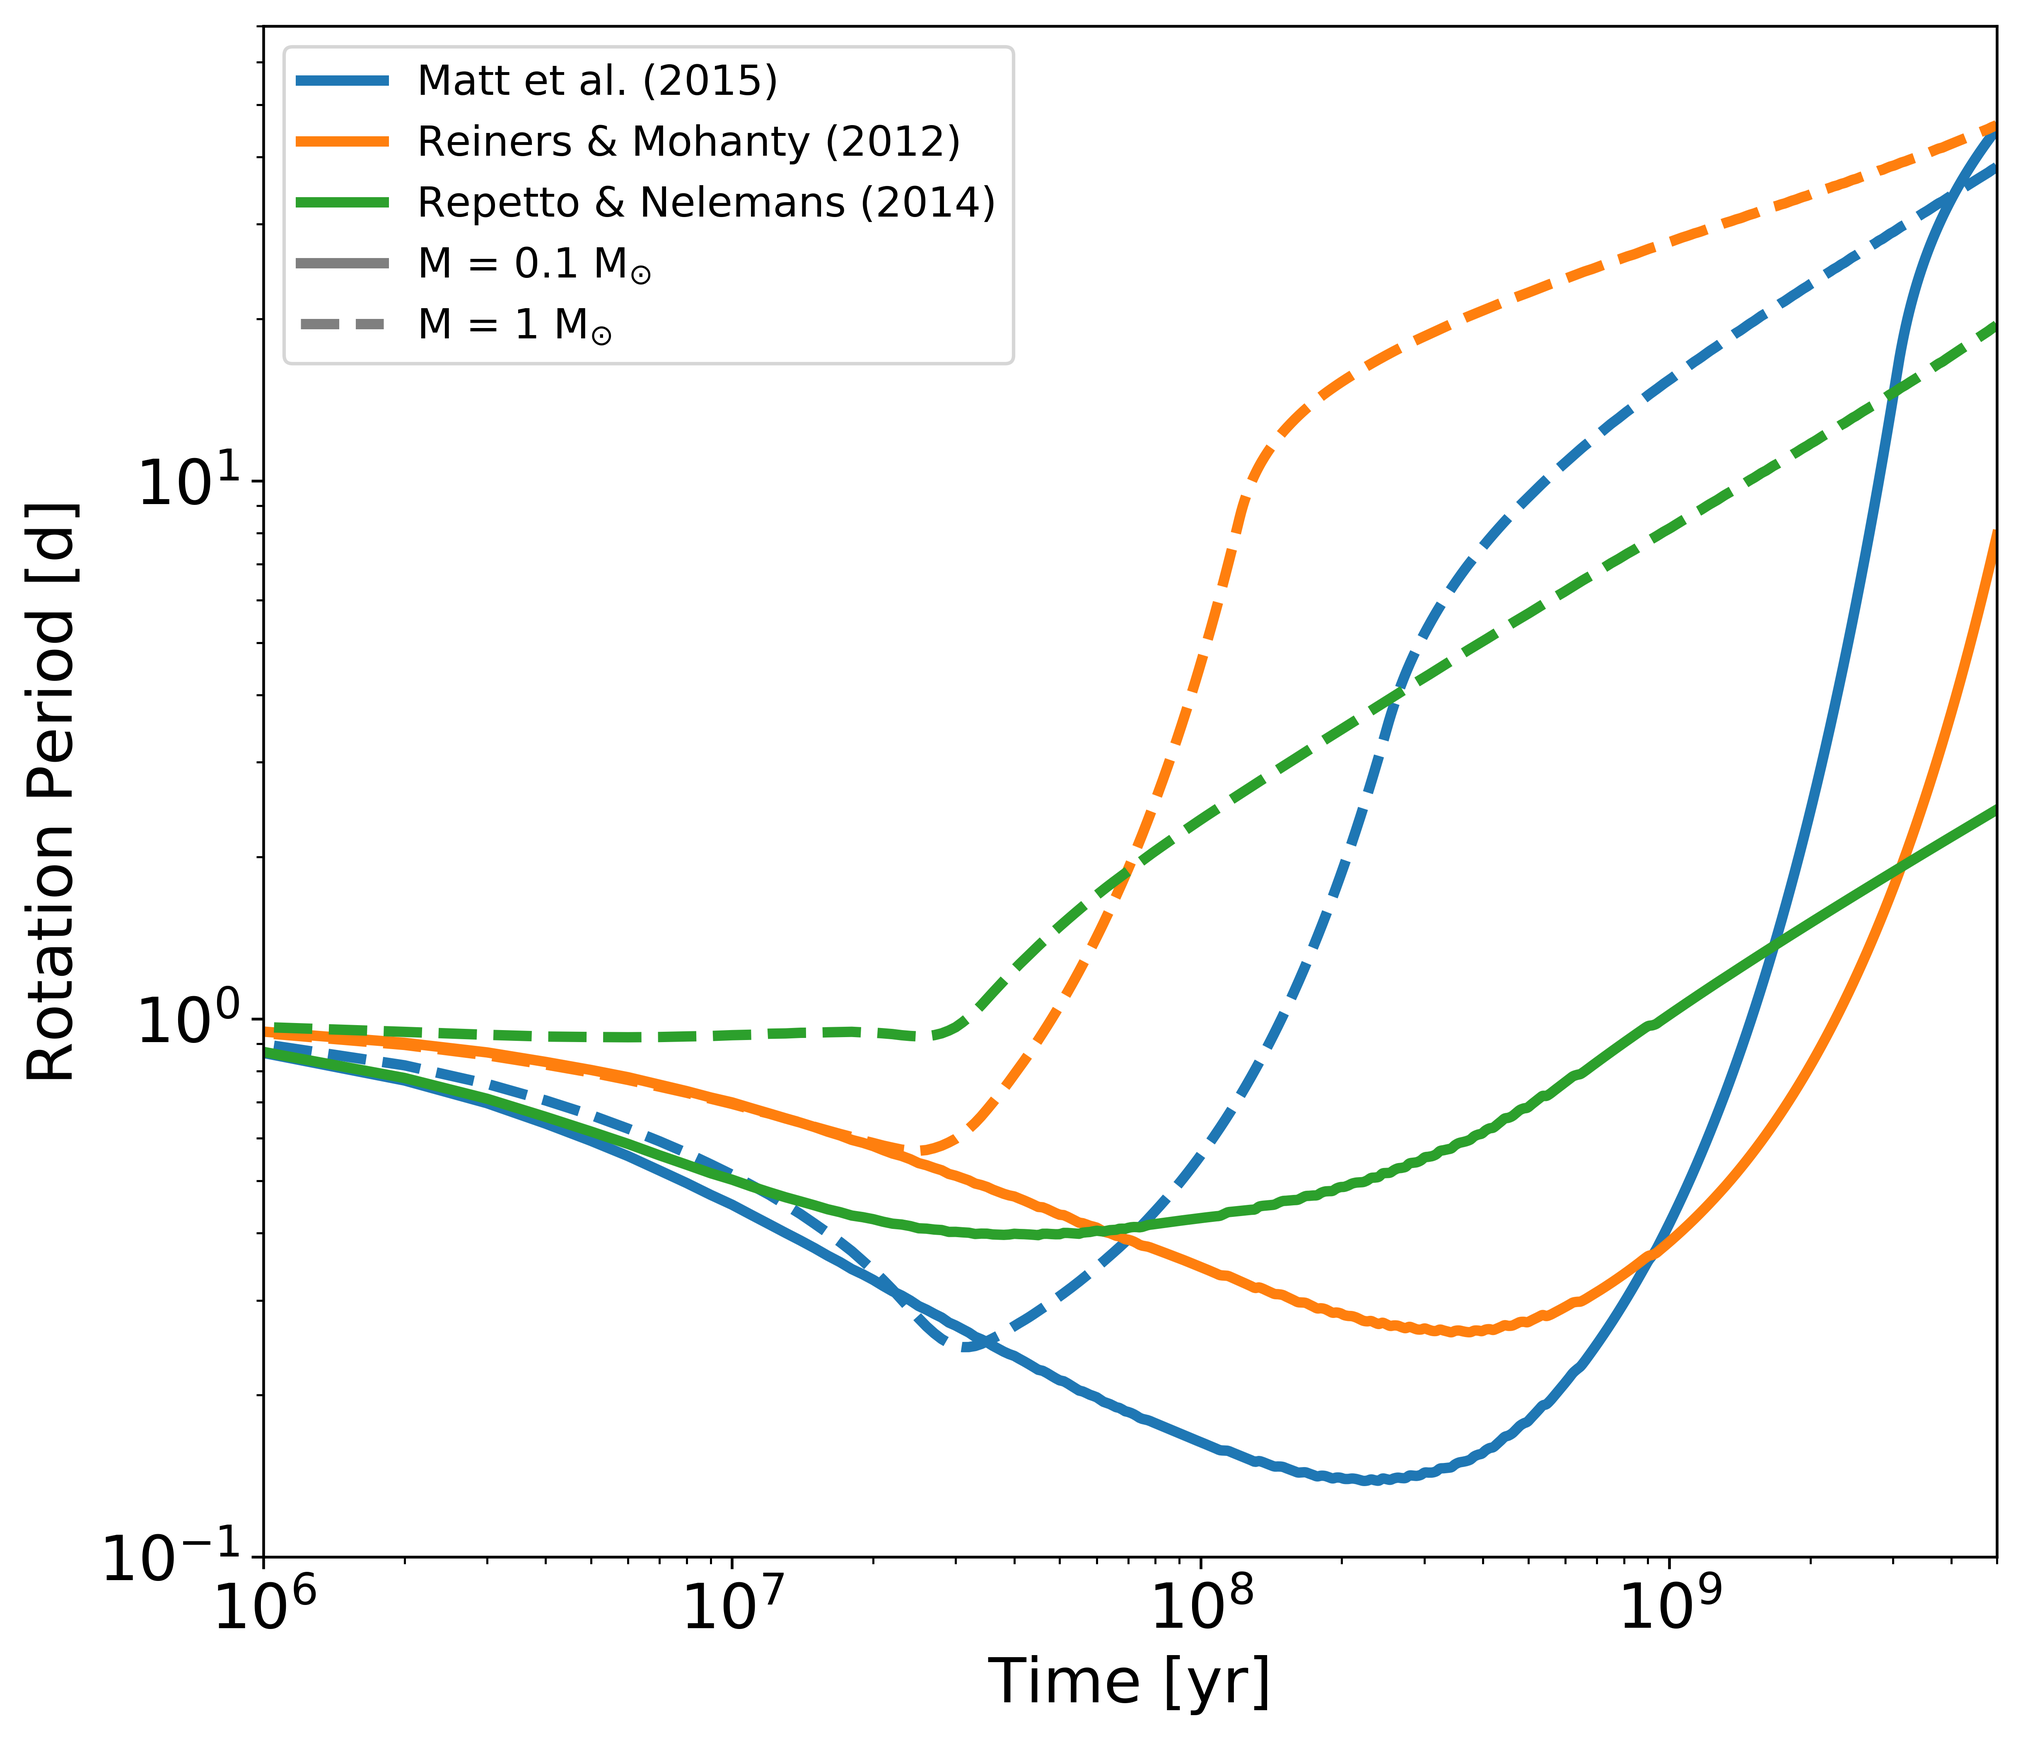
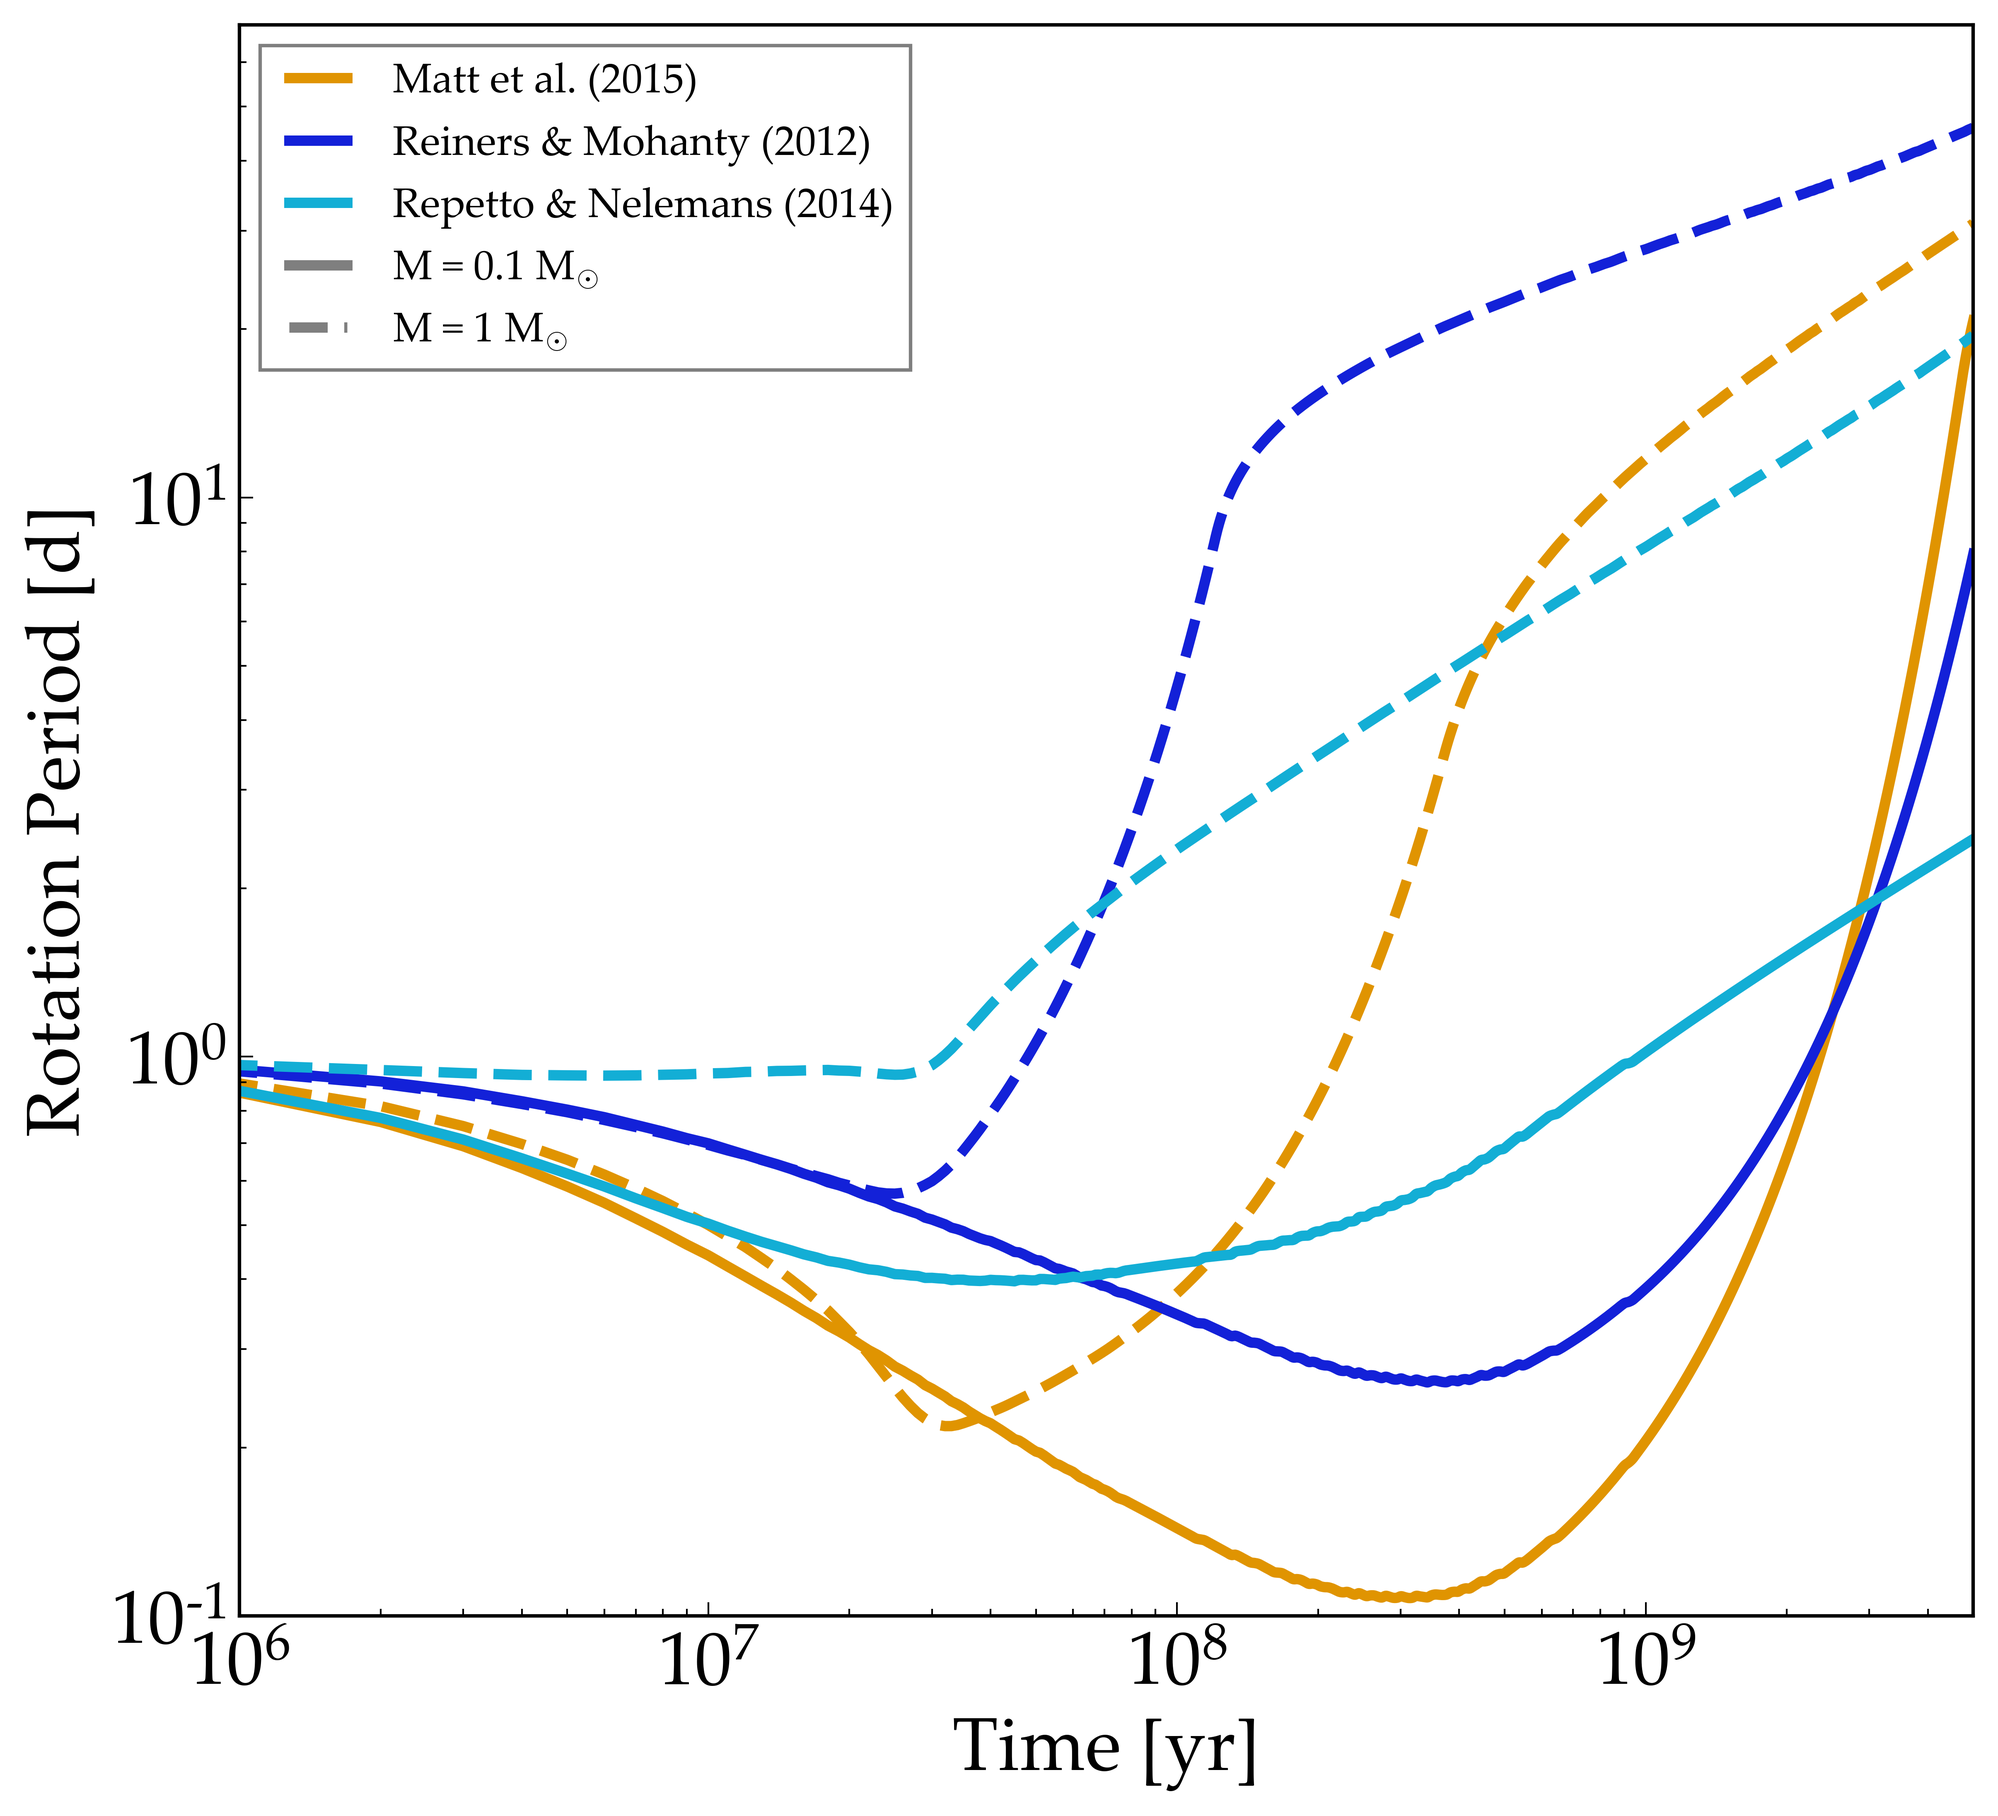
Updated examples/MagneticBraking to include vplot functionality.

diff --git a/examples/MagneticBraking/makeplot.py b/examples/MagneticBraking/makeplot.py
@@ -11,6 +11,7 @@ import matplotlib.pyplot as plt
 import matplotlib as mpl
 import numpy as np
 import sys
+import vplot as vpl
 
 # Check correct number of arguments
 if (len(sys.argv) != 2):
@@ -30,7 +31,7 @@ ms = ["a_matt", "a_reiners", "a_sk"]
 gs = ["b_matt", "b_reiners", "b_sk"]
 labels = ["Matt et al. (2015)", "Reiners & Mohanty (2012)",
           "Repetto & Nelemans (2014)"]
-colors = ["C0", "C1", "C2"]
+colors = [vpl.colors.orange, vpl.colors.dark_blue, vpl.colors.pale_blue]
 
 fig, ax = plt.subplots()
 
@@ -46,9 +47,9 @@ for ii in range(len(ms)):
     ax.plot(g[:,0], g[:,6], lw=3, ls="--", color=colors[ii])
 
 # Annotate
-ax.plot([500], [500], lw=3, ls="-", color="C0", label="Matt et al. (2015)")
-ax.plot([500], [500], lw=3, ls="-", color="C1", label="Reiners & Mohanty (2012)")
-ax.plot([500], [500], lw=3, ls="-", color="C2", label="Repetto & Nelemans (2014)")
+ax.plot([500], [500], lw=3, ls="-", color=vpl.colors.orange, label="Matt et al. (2015)")
+ax.plot([500], [500], lw=3, ls="-", color=vpl.colors.dark_blue, label="Reiners & Mohanty (2012)")
+ax.plot([500], [500], lw=3, ls="-", color=vpl.colors.pale_blue, label="Repetto & Nelemans (2014)")
 ax.plot([500], [500], lw=3, ls="-", color="C7", label="M = 0.1 M$_{\odot}$")
 ax.plot([500], [500], lw=3, ls="--", color="C7", label="M = 1 M$_{\odot}$")
 
